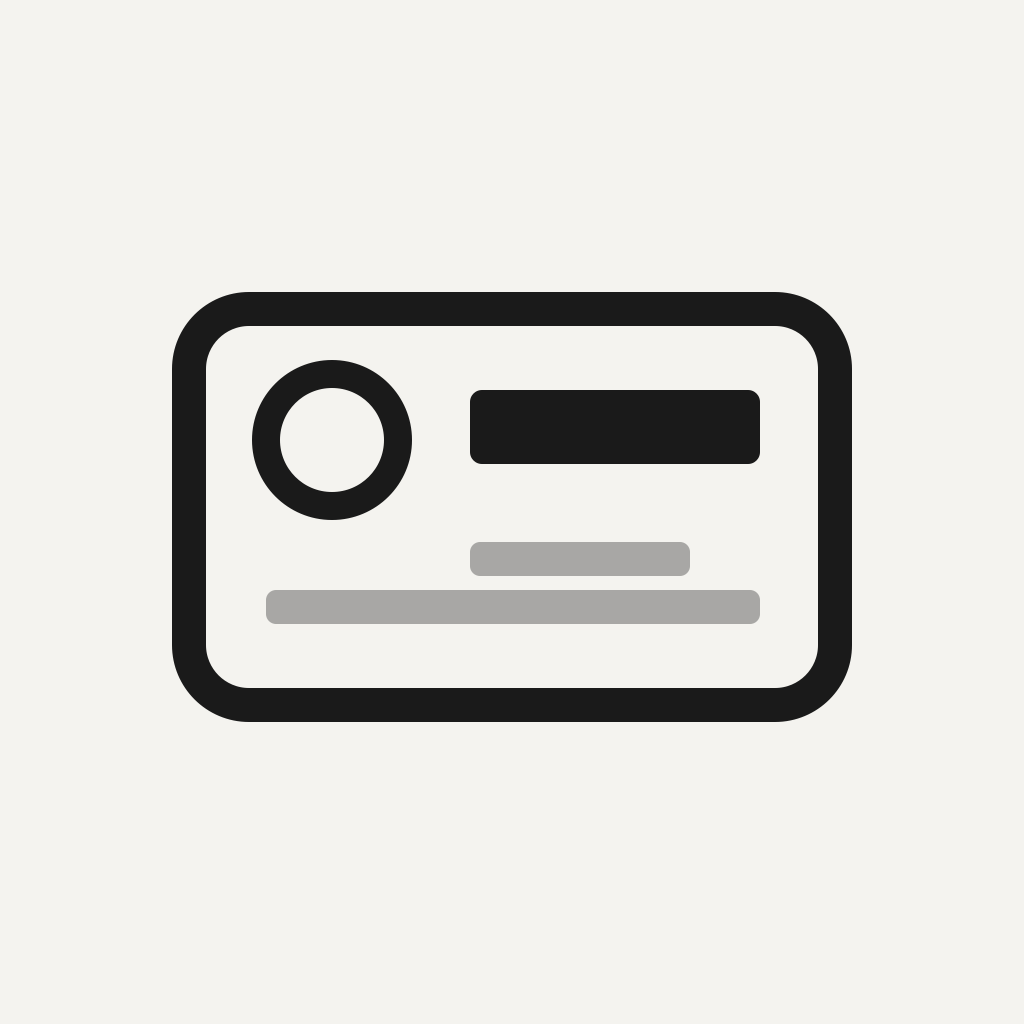
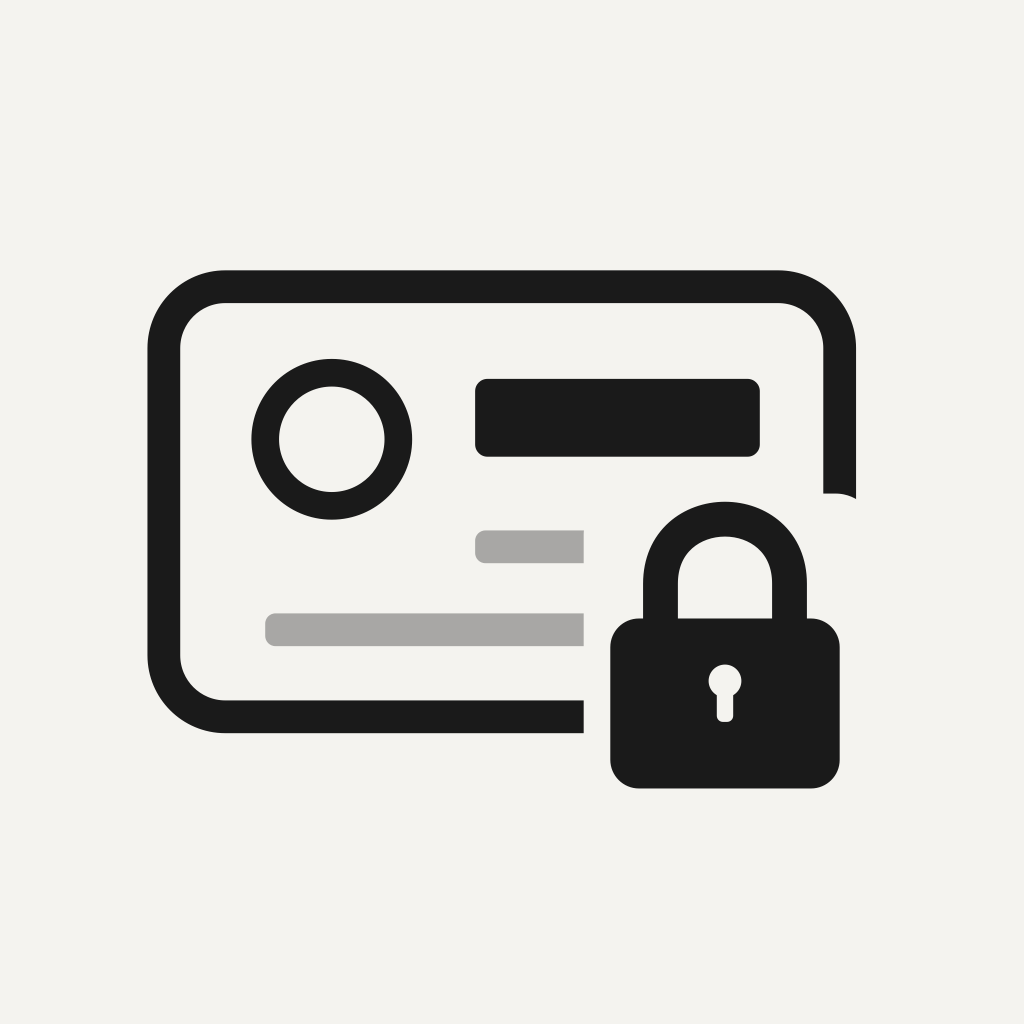
Adopt prominent privacy lock and remove Home branding

Changed region(s): [[0.125, 0.25, 0.8438, 0.7812]]

diff --git a/Sources/MaskeApp/Theme.swift b/Sources/MaskeApp/Theme.swift
@@ -310,34 +310,34 @@ extension Region {
     }
 }
 
-/// The app's mark: a card with one line blacked out.
+/// The selected card-and-lock mark, used only by the privacy cover.
 struct Mark: View {
     var size: CGFloat = 56
 
     var body: some View {
-        let s = size
-        ZStack(alignment: .topLeading) {
-            RoundedRectangle(cornerRadius: s * 0.12, style: .continuous)
-                .strokeBorder(Color.ink, lineWidth: s * 0.055)
-                .frame(width: s, height: s * 0.66)
-            Circle()
-                .strokeBorder(Color.ink, lineWidth: s * 0.05)
-                .frame(width: s * 0.22, height: s * 0.22)
-                .offset(x: s * 0.13, y: s * 0.17)
-            RoundedRectangle(cornerRadius: s * 0.025)
-                .fill(Color.ink)
-                .frame(width: s * 0.42, height: s * 0.11)
-                .offset(x: s * 0.45, y: s * 0.18)
-            RoundedRectangle(cornerRadius: s * 0.02)
-                .fill(Color.ink.opacity(0.35))
-                .frame(width: s * 0.32, height: s * 0.05)
-                .offset(x: s * 0.45, y: s * 0.38)
-            RoundedRectangle(cornerRadius: s * 0.02)
-                .fill(Color.ink.opacity(0.35))
-                .frame(width: s * 0.74, height: s * 0.05)
-                .offset(x: s * 0.13, y: s * 0.48)
+        Canvas { context, canvas in
+            let scale = canvas.width / 1000
+            context.scaleBy(x: scale, y: scale)
+            func rounded(_ rect: CGRect, _ radius: CGFloat) -> Path {
+                Path(roundedRect: rect, cornerRadius: radius)
+            }
+            context.stroke(rounded(CGRect(x: 160, y: 280, width: 660, height: 420), 60), with: .color(.ink), lineWidth: 32)
+            context.stroke(Path(ellipseIn: CGRect(x: 259, y: 364, width: 130, height: 130)), with: .color(.ink), lineWidth: 27)
+            context.fill(rounded(CGRect(x: 464, y: 370, width: 278, height: 76), 12), with: .color(.ink))
+            for rect in [CGRect(x: 464, y: 518, width: 210, height: 32), CGRect(x: 259, y: 599, width: 483, height: 32)] {
+                context.fill(rounded(rect, 10), with: .color(.ink.opacity(0.35)))
+            }
+            context.fill(rounded(CGRect(x: 570, y: 482, width: 286, height: 314), 40), with: .color(.paper))
+            var shackle = Path()
+            shackle.move(to: CGPoint(x: 645, y: 626)); shackle.addLine(to: CGPoint(x: 645, y: 570))
+            shackle.addCurve(to: CGPoint(x: 771, y: 570), control1: CGPoint(x: 645, y: 486), control2: CGPoint(x: 771, y: 486))
+            shackle.addLine(to: CGPoint(x: 771, y: 626))
+            context.stroke(shackle, with: .color(.ink), style: StrokeStyle(lineWidth: 34, lineCap: .round))
+            context.fill(rounded(CGRect(x: 596, y: 604, width: 224, height: 166), 28), with: .color(.ink))
+            context.fill(Path(ellipseIn: CGRect(x: 692, y: 649, width: 32, height: 32)), with: .color(.paper))
+            context.fill(rounded(CGRect(x: 700, y: 671, width: 16, height: 34), 6), with: .color(.paper))
         }
-        .frame(width: s, height: s * 0.66, alignment: .topLeading)
+        .frame(width: size, height: size)
         .accessibilityHidden(true)
     }
 }

diff --git a/scripts/icon.swift b/scripts/icon.swift
@@ -1,5 +1,5 @@
 #!/usr/bin/env swift
-// Renders the app icon: a card on paper with one line blacked out.
+// Renders the app icon: a redacted card with a prominent corner lock (owner-selected C).
 // Usage: scripts/icon.swift  (writes Resources/Assets.xcassets/AppIcon.appiconset/AppIcon.png and Design/AppIcon-1024.png)
 import CoreGraphics
 import Foundation
@@ -16,24 +16,28 @@ let paper = rgb(0xF4F3EF), ink = rgb(0x1A1A1A)
 ctx.setFillColor(paper)
 ctx.fill(CGRect(x: 0, y: 0, width: size, height: size))
 
-// Card (CoreGraphics' origin is bottom left).
-let card = CGRect(x: 172, y: 302, width: 680, height: 430)
-ctx.setStrokeColor(ink)
-ctx.setLineWidth(34)
-ctx.addPath(CGPath(roundedRect: card.insetBy(dx: 17, dy: 17), cornerWidth: 60, cornerHeight: 60, transform: nil))
-ctx.strokePath()
-// Portrait.
-ctx.setLineWidth(28)
-ctx.strokeEllipse(in: CGRect(x: 266, y: 518, width: 132, height: 132))
-// The blacked-out line, and one left visible.
-ctx.setFillColor(ink)
-ctx.addPath(CGPath(roundedRect: CGRect(x: 470, y: 560, width: 290, height: 74), cornerWidth: 12, cornerHeight: 12, transform: nil))
-ctx.fillPath()
-ctx.setFillColor(rgb(0x1A1A1A, 0.35))
-ctx.addPath(CGPath(roundedRect: CGRect(x: 470, y: 448, width: 220, height: 34), cornerWidth: 10, cornerHeight: 10, transform: nil))
-ctx.fillPath()
-ctx.addPath(CGPath(roundedRect: CGRect(x: 266, y: 400, width: 494, height: 34), cornerWidth: 10, cornerHeight: 10, transform: nil))
-ctx.fillPath()
+// Normalized top-left artwork matches the selected C study.
+ctx.translateBy(x: 0, y: 1024)
+ctx.scaleBy(x: 1.024, y: -1.024)
+func rounded(_ rect: CGRect, _ radius: CGFloat, fill: CGColor? = nil, stroke: CGColor? = nil) {
+    let path = CGPath(roundedRect: rect, cornerWidth: radius, cornerHeight: radius, transform: nil)
+    if let fill { ctx.setFillColor(fill); ctx.addPath(path); ctx.fillPath() }
+    if let stroke { ctx.setStrokeColor(stroke); ctx.setLineWidth(32); ctx.addPath(path); ctx.strokePath() }
+}
+rounded(CGRect(x: 160, y: 280, width: 660, height: 420), 60, stroke: ink)
+ctx.setStrokeColor(ink); ctx.setLineWidth(27)
+ctx.strokeEllipse(in: CGRect(x: 259, y: 364, width: 130, height: 130))
+rounded(CGRect(x: 464, y: 370, width: 278, height: 76), 12, fill: ink)
+rounded(CGRect(x: 464, y: 518, width: 210, height: 32), 10, fill: rgb(0x1A1A1A, 0.35))
+rounded(CGRect(x: 259, y: 599, width: 483, height: 32), 10, fill: rgb(0x1A1A1A, 0.35))
+rounded(CGRect(x: 570, y: 482, width: 286, height: 314), 40, fill: paper)
+ctx.setStrokeColor(ink); ctx.setLineWidth(34); ctx.setLineCap(.round)
+ctx.move(to: CGPoint(x: 645, y: 626)); ctx.addLine(to: CGPoint(x: 645, y: 570))
+ctx.addCurve(to: CGPoint(x: 771, y: 570), control1: CGPoint(x: 645, y: 486), control2: CGPoint(x: 771, y: 486))
+ctx.addLine(to: CGPoint(x: 771, y: 626)); ctx.strokePath()
+rounded(CGRect(x: 596, y: 604, width: 224, height: 166), 28, fill: ink)
+ctx.setFillColor(paper); ctx.fillEllipse(in: CGRect(x: 692, y: 649, width: 32, height: 32))
+rounded(CGRect(x: 700, y: 671, width: 16, height: 34), 6, fill: paper)
 
 let image = ctx.makeImage()!
 for path in ["Resources/Assets.xcassets/AppIcon.appiconset/AppIcon.png", "Design/AppIcon-1024.png"] {

diff --git a/scripts/brand-study.swift b/scripts/brand-study.swift
@@ -54,11 +54,11 @@ func mark(_ c: CGContext, variant: Int, in rect: CGRect, dark: Bool = false) {
         rounded(c, CGRect(x: 662, y: 401, width: 48, height: 32), 6, fill: background)
     } else if variant == 2 {
         // A larger corner lock remains legible at app-icon size.
-        rounded(c, CGRect(x: 619, y: 542, width: 242, height: 224), 40, fill: background)
-        shackle(c, x: 674, top: 534, width: 106, bottom: 634, ink: foreground, line: 29)
-        rounded(c, CGRect(x: 641, y: 615, width: 172, height: 133), 24, fill: foreground)
-        c.setFillColor(background); c.fillEllipse(in: CGRect(x: 714, y: 651, width: 27, height: 27))
-        rounded(c, CGRect(x: 721, y: 669, width: 13, height: 28), 5, fill: background)
+        rounded(c, CGRect(x: 570, y: 482, width: 286, height: 314), 40, fill: background)
+        shackle(c, x: 645, top: 507, width: 126, bottom: 626, ink: foreground, line: 34)
+        rounded(c, CGRect(x: 596, y: 604, width: 224, height: 166), 28, fill: foreground)
+        c.setFillColor(background); c.fillEllipse(in: CGRect(x: 692, y: 649, width: 32, height: 32))
+        rounded(c, CGRect(x: 700, y: 671, width: 16, height: 34), 6, fill: background)
     }
 }
 func context(_ width: Int, _ height: Int, fill: CGColor) -> CGContext {

diff --git a/Sources/MaskeApp/HomeView.swift b/Sources/MaskeApp/HomeView.swift
@@ -50,12 +50,6 @@ struct HomeView: View {
         .navigationTitle("")
         .navigationBarTitleDisplayMode(.inline)
         .toolbar {
-            if #available(iOS 26, *) {
-                ToolbarItem(placement: .topBarLeading) { brand }
-                    .sharedBackgroundVisibility(.hidden)
-            } else {
-                ToolbarItem(placement: .topBarLeading) { brand }
-            }
             ToolbarItem(placement: .topBarTrailing) {
                 NavigationLink(value: Session.Step.supported) {
                     Label("Documents", systemImage: "info.circle")
@@ -98,13 +92,6 @@ struct HomeView: View {
                 }.value
             }
         }
-    }
-
-    private var brand: some View {
-        Mark(size: 40)
-            .accessibilityElement(children: .ignore)
-            .accessibilityHidden(false)
-            .accessibilityLabel("MaskCopy")
     }
 
     private var photoSource: some View {

diff --git a/AGENTS.md b/AGENTS.md
@@ -9,7 +9,7 @@ The owner approved **MaskCopy** on 8 November 2026. The repository is now https:
 MaskCopy is a native iPhone app (SwiftUI, iOS 18+) for sharing a copy of a passport, ID card, residence permit or driving licence with the sensitive parts hidden. It is a privacy-first alternative to the Dutch government's KopieID, which only handles Dutch documents. The user scans or picks a photo, MaskCopy straightens the document, suggests masks (machine-readable zone, personal and document numbers, card access number, address, barcode, photo), the user reviews them, says who the copy is for, and saves or shares a watermarked JPG or image-only PDF.
 
 - Owner: Feiyang Tang (TangSpark). Repository: <https://github.com/tangfy97/MaskCopy> (public, Apache 2.0).
-- Status: prototype 0.1.0, TestFlight build 8 uploaded (App Store Connect reports Processing; installation availability unconfirmed) (see [Releasing](#releasing)).
+- Status: prototype 0.1.0, TestFlight build 9 uploaded (App Store Connect reports Processing; installation availability unconfirmed) (see [Releasing](#releasing)).
 - The owner works in Chinese and English; replies to them in Chinese are welcome, code and docs are in English.
 
 ## Non-negotiable rules
@@ -85,7 +85,7 @@ Revision 7 removes the three-stage tracker and illustrative Home. The source cho
 
 Revision 8 adopts native Liquid Glass on iOS 26+: glass/glassProminent styles, grouped effects, safeAreaBar scroll edges and one regular-glass editor surface, with iOS 18–25 standard-control fallbacks. Home uses a native leading title; content titles collapse according to the system, and the editor keeps normal Cancel/Save navigation. Keep glass off document pixels, masks and watermark. Theme.swift owns the availability wrappers and increased-contrast palette. Current research and validation limits are in DESIGN/AUDIT.
 
-Unreleased after build 8: the owner rejected the large brand title. Home now uses a 40-point existing card mark without a glass-button background; functional pages use compact inline titles. Three privacy-logo proposals are in Design/Studies/2026-11-08, generated by scripts/brand-study.swift. No proposal has been selected and the production AppIcon remains unchanged. See DESIGN/AUDIT for focused verification.
+Revision 9: the owner selected privacy-logo C with a more prominent lock and requested no brand mark or text on Home. Production AppIcon is generated by scripts/icon.swift; the three studies remain in Design/Studies/2026-11-08. Home shows only task controls; functional screens have compact inline titles. Theme.swift draws the selected mark only on the privacy cover. See DESIGN/AUDIT for verification.
 
 App launch arguments for the Simulator (Debug builds only, `DebugLaunch` in `MaskeApp.swift`):
 
@@ -127,6 +127,7 @@ Details: [docs/APP_STORE.md](docs/APP_STORE.md).
 - Build (6), the MaskCopy workflow/native editor/watermark revision, uploaded successfully at 13:26 Amsterdam time on 8 Nov. Apple initially reported Upload succeeded and Processing; subsequent browser verification confirmed assignment to TangSpark and the existing tester’s installed 0.1.0 (6). Signature, stable bundle ID, build number and 1024 px AppIcon were verified. Core checks passed 15/15; app/UI verification is in docs/AUDIT.md.
 - Build (7), the minimal source chooser, custom icon/feedback, whole-mask dragging and JPG/PDF export revision, uploaded successfully at 16:46 Amsterdam time on 8 Nov. Upload succeeded / EXPORT SUCCEEDED, and the browser independently showed build 0.1.0 (7) Processing. Signature, stable bundle ID, version, unchanged 1024 px AppIcon and absence of test images/bundles were verified. Core 17/17 and 43/43 synthetic documents passed; UI/export recovery checks are in AUDIT. Build 7 installation is not yet confirmed.
 - Build (8), the native Liquid Glass controls/navigation revision, uploaded successfully at 17:36 Amsterdam time on 8 Nov. Xcode reported Upload succeeded / EXPORT SUCCEEDED and Processing; browser verification independently confirmed build 8 Processing. Strict signature, stable bundle ID, version 0.1.0 (8), unchanged 1024 px AppIcon and absence of test images/bundles were verified. Core 17/17, 43/43 synthetic documents, the light 17-check suite and final compact/export regressions passed. Installation availability is not yet confirmed. See AUDIT and DESIGN.
+- Build (9), the selected C privacy icon and logo-free Home revision, uploaded at 17:48 Amsterdam time on 8 Nov. Xcode reported Upload succeeded / EXPORT SUCCEEDED and Processing; browser verification independently confirmed build 9 Processing. Strict signature, stable bundle ID, version 0.1.0 (9), full-size 1024 px AppIcon and absence of test images/bundles were verified; the actual compiled small icon was decoded and visually checked for the larger lock. Two focused Home/workflow UI journeys passed without runtime warnings. Installation availability is not yet confirmed.
 - Every upload needs a higher `CURRENT_PROJECT_VERSION` in `project.yml`. `ITSAppUsesNonExemptEncryption` is NO.
 - The Apple Developer Program License Agreement update was pending acceptance by the account holder (needed before App Review). Do not accept agreements on the owner's behalf.
 - The owner's site tang-spark.no is a personal studio site, not this product's website; don't add pages there unless asked.

diff --git a/docs/DESIGN.md b/docs/DESIGN.md
@@ -1,10 +1,10 @@
 # MaskCopy interface
 
-Revision 8 aligns the existing minimal workflow with Apple's current Liquid Glass guidance, after reviewing the WWDC26 Design guide, current Materials HIG and adoption/custom-view documentation, and the WWDC25 design-system session. It keeps short labels, the paper/ink/fjord theme and direct document manipulation.
+Revision 9 keeps the native materials introduced in revision 8 and adopts the owner-selected privacy mark with no branding on Home. Revision 8 aligned the existing minimal workflow with Apple's current Liquid Glass guidance, after reviewing the WWDC26 Design guide, current Materials HIG and adoption/custom-view documentation, and the WWDC25 design-system session. It keeps short labels, the paper/ink/fjord theme and direct document manipulation.
 
 ## Native material and navigation
 
-After the owner rejected the oversized brand title, Home uses a small leading card mark without a glass-button background. The mark is decorative, with an accessible MaskCopy name. Functional screens use compact native inline titles; the corner editor keeps the standard Cancel/Save arrangement. Apple's leading-typography guidance covers key moments such as alerts/onboarding, rather than requiring every navigation title or control to align left.
+The owner rejected the oversized brand title and then the logo header. Home has no visible brand text or mark; the upper toolbar contains only the Documents control. Functional screens use compact native inline titles; the corner editor keeps the standard Cancel/Save arrangement. Apple's leading-typography guidance covers key moments such as alerts/onboarding, rather than requiring every navigation title or control to align left.
 
 On iOS 26 and newer, source and action buttons use glass/glassProminent styles. The framework owns touch highlights, vibrancy, shape and motion. Related controls use GlassEffectContainer; bottom controls use safeAreaBar for the system scroll edge. Remove the old opaque footer backing. A single regular-glass editing surface groups zoom, Hide and Reset. Document pixels, redactions, watermark and form content use their original content surfaces.
 
@@ -14,9 +14,9 @@ Sources: [WWDC26 Design](https://developer.apple.com/wwdc26/guides/design/), [Ma
 
 ## Home and icon language
 
-Home contains a 40-point leading brand mark, one central Scan control and lightweight Photos/Files actions. No large brand text, hero illustration, large cards, slogan, tutorial or introductory heading. The supported list is behind the native information control. At accessibility sizes the source actions may stack and the whole layout can scroll without shrinking the selected text size.
+Home contains one central Scan control and lightweight Photos/Files actions. No large brand text, hero illustration, large cards, slogan, tutorial or introductory heading. The supported list is behind the native information control. At accessibility sizes the source actions may stack and the whole layout can scroll without shrinking the selected text size.
 
-Three privacy-logo proposals are in `Design/Studies/2026-11-08`, rendered reproducibly by `scripts/brand-study.swift`. A replaces the portrait with a lock; B integrates a negative-space lock into the redaction; C adds a larger corner lock. They are proposals for comparison, not the installed AppIcon. Keep the existing production artwork until a direction is selected.
+The owner selected privacy-logo C and requested a more obvious lock. The AppIcon now has a larger corner lock, with its body increased from 172 to 224 normalized units and its shackle from 106 to 126. The card/redaction identity remains intact. `scripts/icon.swift` renders production artwork; `scripts/brand-study.swift` reproduces the comparison studies in `Design/Studies/2026-11-08`. Theme.swift uses the same selected geometry for the app-switcher privacy cover. No decorative logo is shown on Home.
 
 Three source symbols share a 24-point drawing grid, round joins and consistent stroke ratios. The scan symbol contains an ID card with a redacted line, keeping the product identity inside a functional control. Icons have accessible names, and the brief Scan/Photos/Files labels make the choices recognizable. Existing system icons remain for familiar editing and export actions.
 

diff --git a/docs/APP_STORE.md b/docs/APP_STORE.md
@@ -29,6 +29,9 @@ Build 7 upload completed at 16:46 Amsterdam time on 8 November. Xcode reported `
 
 Build 8 upload completed at 17:36 Amsterdam time on 8 November. Xcode reported `Upload succeeded`, `Uploaded package is processing` and `EXPORT SUCCEEDED`. Browser verification independently confirmed version 0.1.0, build 8, Processing. Installation availability is not yet confirmed. The archive is MaskCopy 0.1.0 (8), bundle `com.feiyangtang.Maske`; strict signature verification passed, the compiled AppIcon includes the unchanged 1024 × 1024 artwork, and no fixtures or test bundles are embedded. Native Liquid Glass alignment and appearance/export checks are recorded in AUDIT.md and DESIGN.md.
 
+Build 9 upload completed at 17:48 Amsterdam time on 8 November. Xcode reported `Upload succeeded`, `Uploaded package is processing` and `EXPORT SUCCEEDED`. Browser verification independently confirmed version 0.1.0, build 9, Processing. Installation availability is not yet confirmed. Strict signature verification passed for MaskCopy 0.1.0 (9), bundle `com.feiyangtang.Maske`. This build intentionally replaces the old icon with the owner-selected C card/lock artwork, with a more prominent lock. The compiled Assets.car contains a 1024 × 1024 AppIcon; the embedded optimized 120 px PNG was decoded and visually verified to show the selected lock. No fixture images or test bundles are embedded. Two focused Simulator UI journeys passed without runtime warnings; see AUDIT.md.
+
+
 Run `scripts/ui-check.sh` on a booted Simulator for the editor/export regression before a UI release. The build 4 checks are recorded in KNOWN_ISSUES; the iOS Simulator still misses the photo and MRZ of one synthetic Chinese passport turned 90°, while the Mac passes that case.
 
 ## One-time setup
@@ -39,7 +42,7 @@ Run `scripts/ui-check.sh` on a booted Simulator for the editor/export regression
 | Bundle ID `com.feiyangtang.Maske` | Registered by the first archive (`-allowProvisioningUpdates`) |
 | App record | Created 7 November 2026, Apple ID 6832059753 |
 | TestFlight | Internal group TangSpark, automatic distribution on, Feiyang Tang added |
-| Builds uploaded | 0.1.0 (1) and (2), 7 November; (3), (4), (5), (6), (7) and (8), 8 November 2026 |
+| Builds uploaded | 0.1.0 (1) and (2), 7 November; (3), (4), (5), (6), (7), (8) and (9), 8 November 2026 |
 | Developer Program License Agreement | An update was waiting for the account holder to accept (needed before App Review; not needed for internal TestFlight) |
 | Export compliance | `ITSAppUsesNonExemptEncryption` is NO in `project.yml` |
 

diff --git a/docs/AUDIT.md b/docs/AUDIT.md
@@ -1,6 +1,14 @@
 # Interface and usability verification
 
-## Unreleased: compact brand header and privacy-logo studies
+## Build 9: selected C mark, no Home branding
+
+The owner selected C, requested a more prominent lock, and rejected any logo on Home. Production artwork and the in-app privacy-cover geometry now use the larger corner lock. Home has no visible brand mark or wordmark; only the Documents toolbar control and source actions remain. Functional screen titles stay compact. No recognition, masking, watermark or export code changed.
+
+`SelectedC.xcresult` passed Home/Documents/search and the full review→watermark→copy→zoom→Close journey (2/2), with no runtime warnings. The final logo-free Home screenshot was inspected under build/BrandStudy/home.png. Source icon artwork was inspected at 1024 px and in the small-size/dark comparison; the lock is deliberately larger than the initial C. These focused light-mode journeys are not new evidence of maximum-text layouts, VoiceOver navigation or device frame pacing.
+
+Build 9 upload completed at 17:48 Amsterdam time on 8 November: Xcode reported Upload succeeded / EXPORT SUCCEEDED and Processing; the browser independently confirmed build 9 Processing. Strict archive signature and stable bundle identity/version were verified. The full-size compiled icon is present and the embedded 120 px optimized PNG was decoded with Xcode’s pngcrush and visually verified against the selected C lock. No fixture images or test bundles are embedded. Installation availability is not yet confirmed.
+
+## Earlier exploration: compact brand header and privacy-logo studies
 
 The owner rejected the oversized brand title and requested privacy-focused logo alternatives. Home now has a 40-point leading card mark, with an accessible MaskCopy name and no decorative glass-button background. Review, Watermark, Your copy and Documents use compact native inline titles. Theme’s mark now includes the original artwork’s lower visible line. The installed AppIcon and build number remain unchanged; three native vector-path studies are proposals in Design/Studies/2026-11-08.
 

diff --git a/README.md b/README.md
@@ -10,7 +10,7 @@ An iPhone app for sharing a copy of your passport, ID card or driving licence wi
 - Opaque masks are painted into the pixels (never blurred). The recipient, purpose and date are watermarked into every page. Save or share JPG/PDF from the final preview. PDF contains only the flattened image; neither format includes source metadata
 - Everything happens on the iPhone with Apple's Vision framework. No network code, accounts, analytics, third-party code or history. Temporary export files are removed when the session ends or the app next opens ([privacy policy](PRIVACY.md))
 
-**Status:** prototype 0.1.0, build 8 uploaded to App Store Connect (Apple reports Processing; build 8 installation availability is not yet confirmed). Not yet on the App Store. What still goes wrong: [docs/KNOWN_ISSUES.md](docs/KNOWN_ISSUES.md). What comes next: [docs/ROADMAP.md](docs/ROADMAP.md).
+**Status:** prototype 0.1.0, build 9 uploaded to App Store Connect (Apple reports Processing; build 9 installation availability is not yet confirmed). Not yet on the App Store. What still goes wrong: [docs/KNOWN_ISSUES.md](docs/KNOWN_ISSUES.md). What comes next: [docs/ROADMAP.md](docs/ROADMAP.md).
 
 **Working on MaskCopy with a coding agent?** Start with [AGENTS.md](AGENTS.md): the rules, the map of the code, how to test, and what was learned so far.
 

diff --git a/Design/Studies/2026-11-08/README.md b/Design/Studies/2026-11-08/README.md
@@ -2,8 +2,8 @@
 
 Owner request: retain the existing card/redaction identity, make privacy clearer and replace the oversized Home wordmark with a small logo.
 
-- A, Privacy card: replace the portrait with a lock. Recommended for balance and legibility.
+- A, Privacy card: replace the portrait with a lock.
 - B, Locked mask: a negative-space lock in the redaction. Closest to the original; its privacy detail is weaker at small sizes.
-- C, Protected copy: a larger corner lock. Most explicit, but visually heavier.
+- C, Protected copy: owner-selected. Enlarged corner lock after feedback; production artwork now follows this geometry.
 
-The comparison includes light, dark, 64/40/24-pixel app-icon studies and standalone marks. These are static vector-path proposals, not Icon Composer materials or a released icon change. Current production artwork remains unchanged. Regenerate with `swift scripts/brand-study.swift Design/Studies/2026-11-08`.
+The comparison includes light, dark, 64/40/24-pixel app-icon studies and standalone marks. These are static vector-path studies, not Icon Composer materials. C was selected on 8 November; `scripts/icon.swift` generates its production AppIcon. Regenerate with `swift scripts/brand-study.swift Design/Studies/2026-11-08`.

diff --git a/CHANGELOG.md b/CHANGELOG.md
@@ -2,12 +2,13 @@
 
 All notable changes to MaskCopy are listed here. Versions follow [Semantic Versioning](https://semver.org).
 
-## Unreleased
-
-- Replace Home’s oversized brand title with a small accessible card logo; use compact native titles throughout the document workflow. Keep the decorative logo outside glass button backgrounds.
-- Add three reproducible privacy-logo studies for owner comparison, including dark and small-size variants. Production AppIcon remains unchanged.
-
 ## [0.1.0] - 2026-11-08
+
+Build 9: privacy mark and quieter navigation. Uploaded 8 November at 17:48 Amsterdam time; Apple reports Processing. Installation availability is not yet confirmed.
+
+- Adopt the owner-selected C AppIcon, with a larger corner lock and the existing paper/card/redaction identity. Match the privacy-cover mark to the selected artwork.
+- Remove all brand text and logos from Home. Keep direct source actions and the Documents control; use compact inline functional titles elsewhere.
+- Retain three reproducible privacy-logo studies for comparison.
 
 Build 8: native Liquid Glass alignment. Uploaded 8 November at 17:36 Amsterdam time; Apple reports Processing. Installation availability is not yet confirmed.
 
